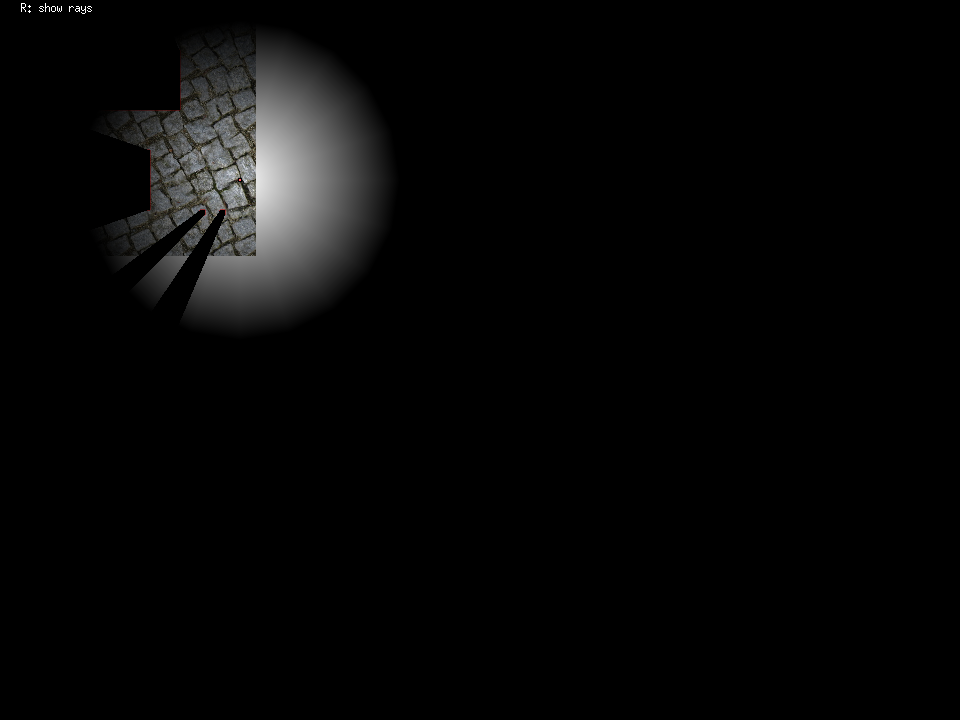
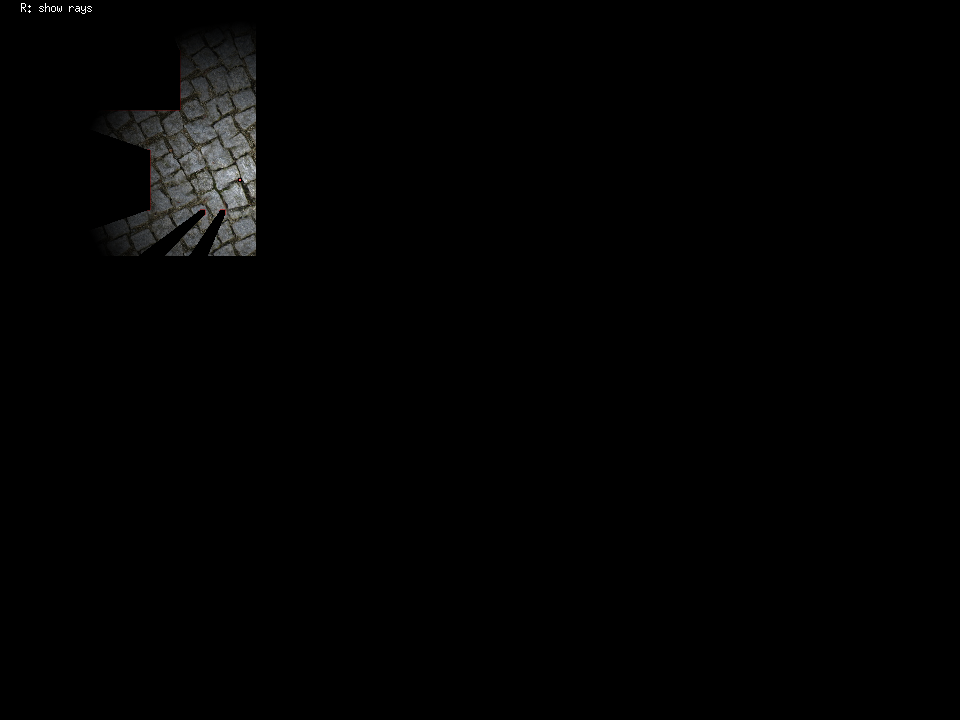
feat: VRTで直起動すると、黒背景がないことになっているので、state内で設定する

Changed region(s): [[0.125, 0.0306, 0.4062, 0.4583]]

diff --git a/lib/raycast/raycast.go b/lib/raycast/raycast.go
@@ -23,10 +23,11 @@ const (
 var (
 	screenWidth  = 0
 	screenHeight = 0
-	bgImage      *ebiten.Image
-	shadowImage  *ebiten.Image
-	visionImage  *ebiten.Image
-	blackImage   *ebiten.Image
+	baseImage    *ebiten.Image // 一番下にある黒背景
+	bgImage      *ebiten.Image // 床を表現する
+	shadowImage  *ebiten.Image // 影を表現する
+	visionImage  *ebiten.Image // 視界を表現する
+	blackImage   *ebiten.Image // 影生成時の、マスクのベースとして使う黒画像
 
 	vertices   []ebiten.Vertex
 	visionNgon = 20
@@ -194,6 +195,7 @@ func (g *Game) Prepare() {
 	screenWidth = g.ScreenWidth
 	screenHeight = g.ScreenHeight
 
+	baseImage = ebiten.NewImage(g.ScreenWidth, g.ScreenHeight)
 	shadowImage = ebiten.NewImage(g.ScreenWidth, g.ScreenHeight)
 	visionImage = ebiten.NewImage(g.ScreenWidth, g.ScreenHeight)
 	blackImage = ebiten.NewImage(g.ScreenWidth, g.ScreenHeight)
@@ -204,7 +206,8 @@ func (g *Game) Prepare() {
 	}
 	bgImage = ebiten.NewImageFromImage(img)
 
-	blackImage.Fill(color.RGBA{0, 0, 0, 255})
+	baseImage.Fill(color.Black)
+	blackImage.Fill(color.Black)
 
 	// 	// Add outer walls
 	g.Objects = append(g.Objects, Object{rect(padding, padding, float64(screenWidth)-2*padding, float64(screenHeight)-2*padding)})
@@ -290,6 +293,7 @@ func (g *Game) Draw(screen *ebiten.Image) {
 	}
 
 	// Draw background
+	screen.DrawImage(baseImage, nil)
 	screen.DrawImage(bgImage, nil)
 
 	// Draw walls
